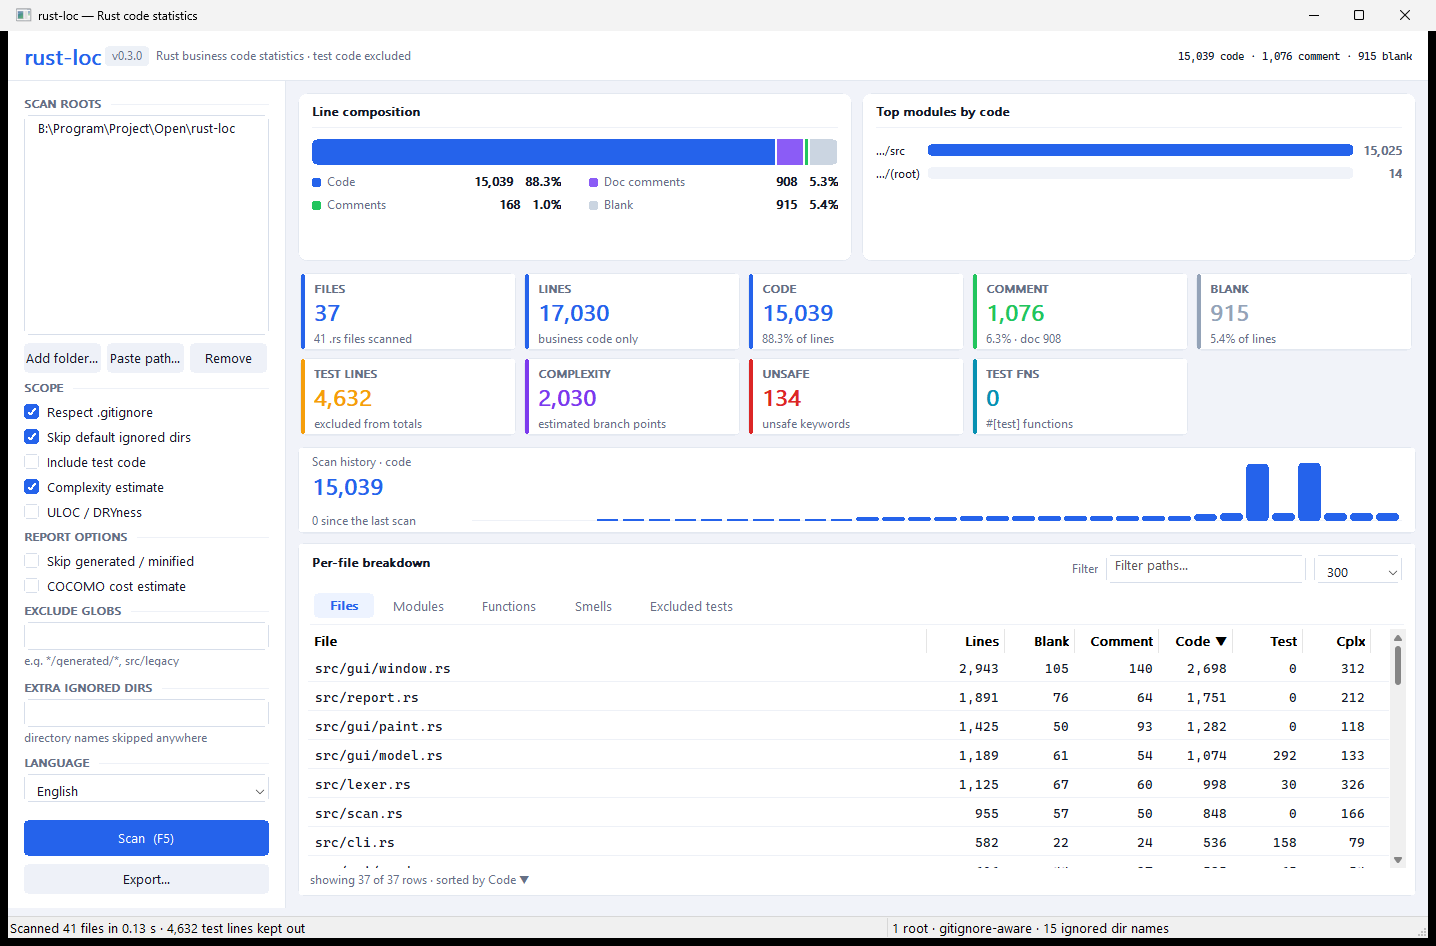
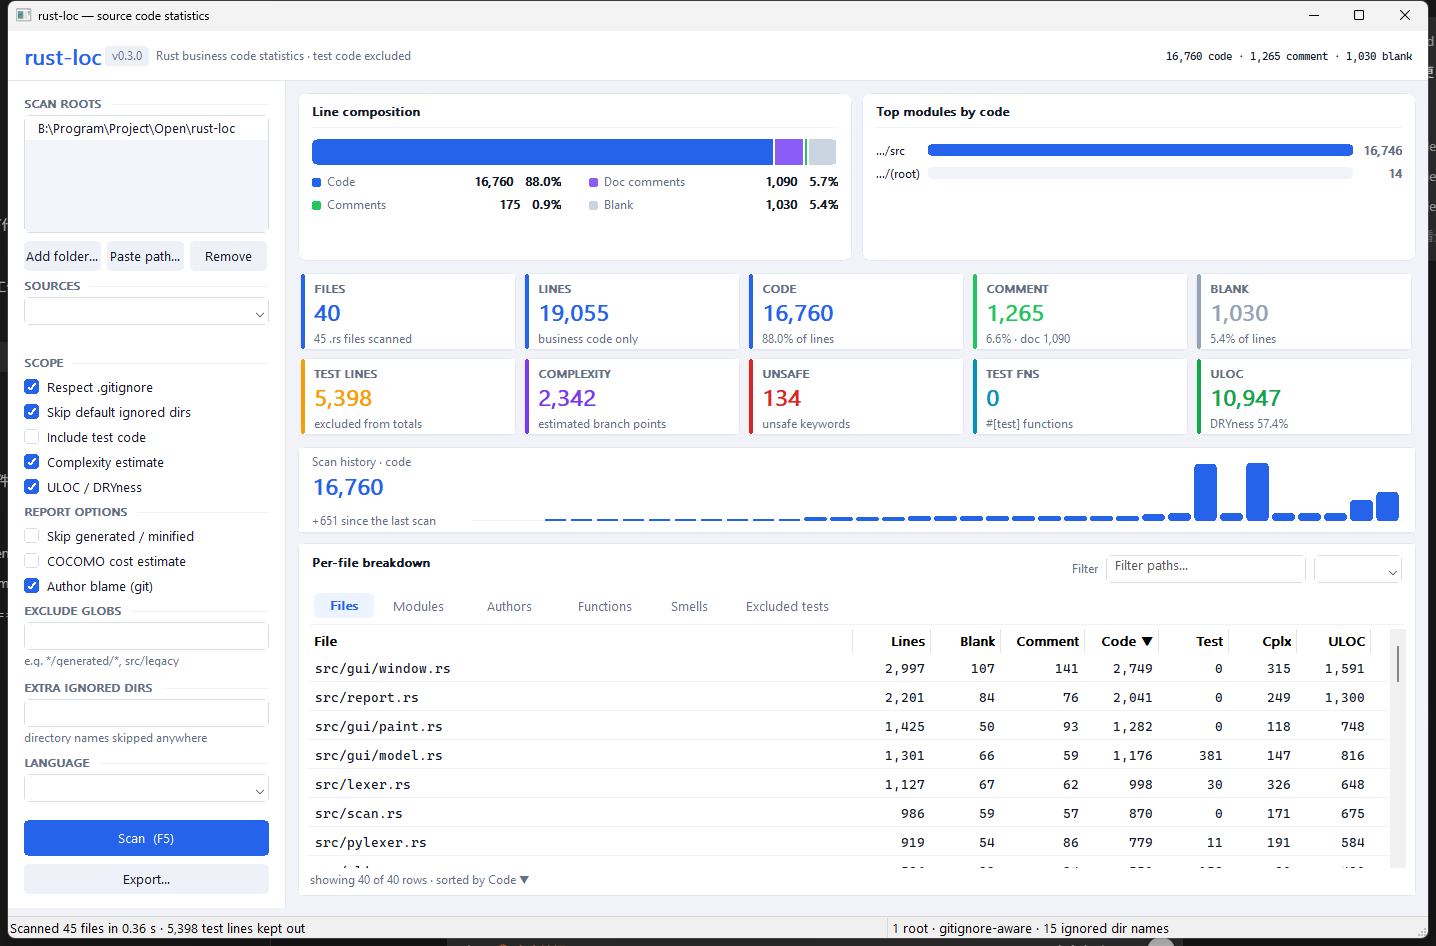
📝 docs: document the Python sources and the author breakdown

diff --git a/README.md b/README.md
@@ -1,13 +1,15 @@
 # rust-loc
 
-Count Rust source lines with **test code excluded**, plus the metrics the other
-counters skip: ULOC/DRYness, an scc-compatible complexity estimate, `unsafe` use
-and test-function totals.
+Count source lines with **test code excluded** — Rust by default, Python too
+with `--sources` — plus the metrics the other counters skip: ULOC/DRYness, an
+scc-compatible complexity estimate, `unsafe` use and test-function totals.
 
 `rust-loc` is a single-binary Rust tool. `python/` holds the original Python
-implementation, kept as the **reference implementation**: the Rust CLI is
-verified to emit byte-identical reports for text, JSON, CSV and Markdown, and
-`scripts/check-parity.ps1` re-runs that comparison on demand.
+implementation the Rust port was matched against line for line, and
+`scripts/check-parity.ps1` re-runs that comparison on a tree both CLIs
+understand. The Rust CLI is the maintained one: it has since grown switches the
+reference never had (positional roots, `--sources`, the gate suite, the
+functions and smells tables).
 
 ## Why another line counter
 
@@ -22,19 +24,59 @@ blank, then subtracts test code so the numbers describe the shipped logic. It
 matches the competitors on the core columns (`files`, `lines`, `blank`,
 `comment`, `code`) so it can be dropped into an existing dashboard.
 
+## Source languages
+
+`--sources <rust|python|all>` picks what a scan reads. The default is `rust`,
+so every existing invocation counts exactly the `.rs` files it always did.
+`--sources python` reads a Python tree instead, and `--sources all` reads both,
+which is what a repository that ships a Rust core with a Python tool wants from
+one run.
+
+```console
+> rust-loc --sources python tools
+> rust-loc --sources all src python --by-file
+```
+
+A language brings its own reader and its own idea of a test; everything
+downstream — the tables, the gates, the badges, the JSON — is shared. The
+report heading, the block titles and the JSON `scope.sources` key follow the
+selection, so a Python-only run never claims to have counted Rust.
+
+| Language | Reader | Counted as test code, excluded by default |
+| --- | --- | --- |
+| Rust | `src/lexer.rs` | `tests/`, `benches/`, `*_test.rs` files, `#[cfg(test)]` items, `#![cfg(test)]` crates |
+| Python | `src/pylexer.rs` | `test_*.py`, `*_test.py`, `conftest.py`, `tests/` packages, and the bodies of `def test_*` / `class Test*` (including pytest, unittest, mock and hypothesis decorated tests) |
+
+### Python
+
+The Python reader mirrors the Rust one, with the language's own spellings:
+
+| Metric | Python |
+| --- | --- |
+| `doc` | docstrings (triple-quoted `"` or `'`) on a module, class or def |
+| `complexity` | `if` / `elif` / `else`, `for`, `while`, `except`, `and` / `or`, `==` / `!=`, and `case` branches |
+| `test_fns` | `def test_*` functions |
+| `todo` | `TODO` / `FIXME` / `XXX` comments |
+| `unimplemented` | `NotImplementedError` |
+| `allow` | `noqa`, `type: ignore`, `pylint: disable`, `pyright: ignore`, `mypy: ignore` |
+
+`unsafe`, `unwrap`, `expect` and `panic` are Rust spellings with no Python
+counterpart, so they stay zero and the report drops the *Unsafe* row rather than
+print a misleading `0`.
+
 ## Metrics
 
 | Metric | Meaning |
 | --- | --- |
-| `files` | analysed `.rs` files after test-only files are removed |
+| `files` | analysed source files (`.rs`, or `.py` with `--sources`) after test-only files are removed |
 | `lines` | `blank + comment + code` for the business scope |
 | `blank` / `comment` / `code` | per-line classification, excluding test lines |
 | `doc` | subset of `comment`: `///`, `//!`, `/** */`, `/*! */` |
-| `test` | lines inside test-only files or `#[cfg(test)]` items |
-| `complexity` | approximate cyclomatic complexity using scc's Rust branch tokens (`if else for while loop match && || == !=`) |
+| `test` | lines inside test-only files or test items (`#[cfg(test)]` / `def test_*`) |
+| `complexity` | approximate cyclomatic complexity using scc's branch tokens (Rust: `if else for while loop match && \|\| == !=`; Python: `if elif else for while except and or == != case`) |
 | `unsafe` | `unsafe` keyword count (cargo-count style) |
 | `test_fns` | functions carrying `#[test]`, `#[tokio::test]`, `#[rstest]`, ... |
-| `smells` | `unwrap + expect + panic + todo + unimplemented + allow` |
+| `smells` | `unwrap + expect + panic + todo + unimplemented + allow` (Rust); `todo + unimplemented + allow` (Python) |
 | `unwrap` / `expect` | calls to those `Option`/`Result` methods (a field sharing the name is not one) |
 | `panic` / `todo` / `unimplemented` | `panic!()`, `todo!()`, `unimplemented!()` macro calls |
 | `allow` | `#[allow(...)]` lint escapes |
@@ -166,6 +208,7 @@ top = 20
 functions = true
 top_functions = 10
 smells = true
+authors = true
 cocomo = true
 jobs = 8
 
@@ -268,6 +311,54 @@ or the root is not a repository, the section prints `no git history for these
 files` instead of failing. `--top` caps the rows (default 15), and `--format
 json` adds a `hotspots` array plus `hotspot_total` so a build can script the
 ranking.
+
+### Who wrote the lines
+
+`--authors` blames every business file and hands each line to the author who
+last touched it. The blamed line is classified with the same lexer the file
+listing uses, so an author's code, comment and blank columns add up to the same
+totals the summary prints:
+
+```console
+> rust-loc --authors
+Authors
+  2 author(s), 15,471 code lines across 36 blamed file(s)
+  3 file(s) are not in git, so their lines are not counted
+
+Author              Files      Lines        Code   Comment    Blank   Share
+---------------------------------------------------------------------------
+Muu                    36     16,958      15,067     1,021      870   97.4%
+Not Committed Yet      14        550         404        85       61    2.6%
+```
+
+`--by-file` turns the same blame into a per-file breakdown, one block per file
+with each author's share below it, so the owners of a single file are visible at
+a glance:
+
+```console
+> rust-loc --authors --by-file --top 2
+Per-file authors
+  File / author          Lines        Code   Comment    Blank
+  src/gui/window.rs
+    Muu                  2,941       2,710       132       99
+    Not Committed Yet         51          34         9        8
+  src/report.rs
+    Muu                  1,865       1,758        50       57
+    Not Committed Yet        336         283        26       27
+```
+
+The email is the identity when git has one, otherwise the name, and lines that
+are still uncommitted are kept in a `Not Committed Yet` row instead of being
+dropped. Files git does not track (ignored, or outside the repository) are
+reported in the header so the blamed lines never silently disagree with the
+summary. `--format json` adds `authors_available`, `authors_untracked`, an
+`authors` array and, with `--by-file`, a `file_authors` array, and
+`--format markdown` carries the same table plus one bullet list per file.
+
+The attribution is blame attribution: a reformatted line belongs to whoever last
+rewrote it, not to the person who first wrote it. The scan costs one
+`git blame` per file, so `--authors` is deliberately off unless asked for;
+without the flag nothing here runs and no report changes.
 
 ### Maintainability and cognitive complexity
 
@@ -432,7 +523,7 @@ a shell would print:
 
 | Tool | Arguments | Answer |
 | --- | --- | --- |
-| `scan` | the scope switches (`roots`, `include_tests`, `exclude`, `exclude_generated`, `uloc`, `smells`, `functions`, `metrics`, `languages`, `duplicates`, `hotspots`, `cocomo`) and `format` | the report, JSON by default and text, markdown or CSV on request |
+| `scan` | the scope switches (`roots`, `include_tests`, `exclude`, `exclude_generated`, `uloc`, `smells`, `functions`, `metrics`, `languages`, `duplicates`, `hotspots`, `authors`, `by_file`, `cocomo`) and `format` | the report, JSON by default and text, markdown or CSV on request |
 | `gate` | the same scope plus `rules`, e.g. `["code>100000", "complexity>5000"]` | `failed`, and one entry per rule with its value, limit, verdict and the file (and function) to blame |
 | `history` | the `path` of a file `--history` wrote, and an optional `metric` | the series, its sparkline, every per-trend series and the change since the previous scan |
 
@@ -473,6 +564,7 @@ rust-loc [OPTIONS] [ROOTS]...
 | `--top <n>` | limit listings to `n` rows |
 | `--show-excluded` | list the excluded test-only files |
 | `--include-tests` | count test code as well |
+| `--sources <rust\|python\|all>` | source languages to read (default `rust`) |
 | `--exclude <glob>` | skip matching paths (repeatable) |
 | `--ignore-dir <name>` | skip a directory name (repeatable) |
 | `--no-ignore-dirs` | do not skip the built-in directory list |
@@ -483,6 +575,7 @@ rust-loc [OPTIONS] [ROOTS]...
 | `--top-functions <n>` | rows in the function list (default 20, `0` = all) |
 | `--smells` | add the panic-call / lint-escape counters to the report |
 | `--hotspots` | rank files by complexity times git churn |
+| `--authors`, `--blame` | attribute every business line to its last author with `git blame` |
 | `--metrics` | add cognitive complexity, Halstead volume and the MI score |
 | `--languages`, `--langs` | per-language breakdown for the whole tree |
 | `--duplicates`, `--dup` | find blocks of lines copied from elsewhere |
@@ -505,6 +598,8 @@ usage error.
 > rust-loc src-tauri/src src-tauri/crates
 > rust-loc --by-file --sort complexity --top 15
 > rust-loc --format markdown --by-module --uloc
+> rust-loc --sources python tools --smells
+> rust-loc --sources all src python --by-file --sort code
 > rust-loc --format csv --by-file > loc.csv
 > rust-loc --format json --show-excluded --uloc .
 > rust-loc --functions --top-functions 10
@@ -523,7 +618,8 @@ usage error.
 ## Windows UI
 
 `rust-loc-gui.exe` is a native Win32 front end over the same library: one
-window, no web runtime, no UI toolkit. A scan-root sidebar owns the options,
+window, no web runtime, no UI toolkit. A scan-root sidebar owns the options
+(including the *Sources* selector that picks Rust, Python or both),
 the results pane shows a line-composition bar, a top-module chart, the KPI
 cards and a tabbed per-file / per-module / per-function / excluded-file table.
 A scan runs on
@@ -623,7 +719,11 @@ rest being directory walking and the `git ls-files` call for `.gitignore`.
 
 | Path | Contents |
 | --- | --- |
-| `src/lexer.rs` | single-pass tokeniser: line classes, metrics, `#[cfg(test)]` spans |
+| `src/lexer.rs` | Rust single-pass tokeniser: line classes, metrics, `#[cfg(test)]` spans |
+| `src/pylexer.rs` | Python tokeniser: docstrings, `def test_*` spans, the same metrics shape |
+| `src/sources.rs` | the `--sources` selection: languages, extensions, git pathspecs |
+| `src/git.rs` | the git helpers: repository root, `numstat` churn and history |
+| `src/authors.rs` | `git blame` attribution: per-author and per-file line shares |
 | `src/scan.rs` | discovery, glob/gitignore filtering, parallel analysis, aggregation |
 | `src/report.rs` | text, JSON, CSV and Markdown renderers |
 | `src/options.rs` | scan options shared by every renderer |
@@ -645,7 +745,7 @@ rest being directory walking and the `git ls-files` call for `.gitignore`.
 > cargo build --release      # target/release/rust-loc.exe
 > cargo build --release --bin rust-loc-gui   # target/release/rust-loc-gui.exe
 > cargo build --release --bin rust-loc-mcp   # target/release/rust-loc-mcp.exe
-> cargo test                 # 268 tests
+> cargo test                 # 320 tests
 > cargo clippy --all-targets -- -D warnings
 > cargo fmt --all
 ```
@@ -714,7 +814,10 @@ by hand).
     score~~ - shipped as `--metrics`;
 11. ~~a per-language breakdown of the whole tree~~ - shipped as `--languages`;
 12. ~~copy-paste detection: which blocks of lines were copied~~ - shipped as
-    `--duplicates`.
+    `--duplicates`;
+18. ~~who wrote the lines: git blame attribution per author and per file~~ -
+    shipped as `--authors`, with the code/comment/blank split the rest of the
+    report uses and a `--by-file` per-file breakdown.
 13. ~~watch the roots and rescan when files change~~ - shipped in `rust-loc-gui`.
 14. ~~a shareable report without HTML~~ - shipped as `--format svg`.
 15. ~~a raster export for slides and issue trackers~~ - the GUI writes the card
